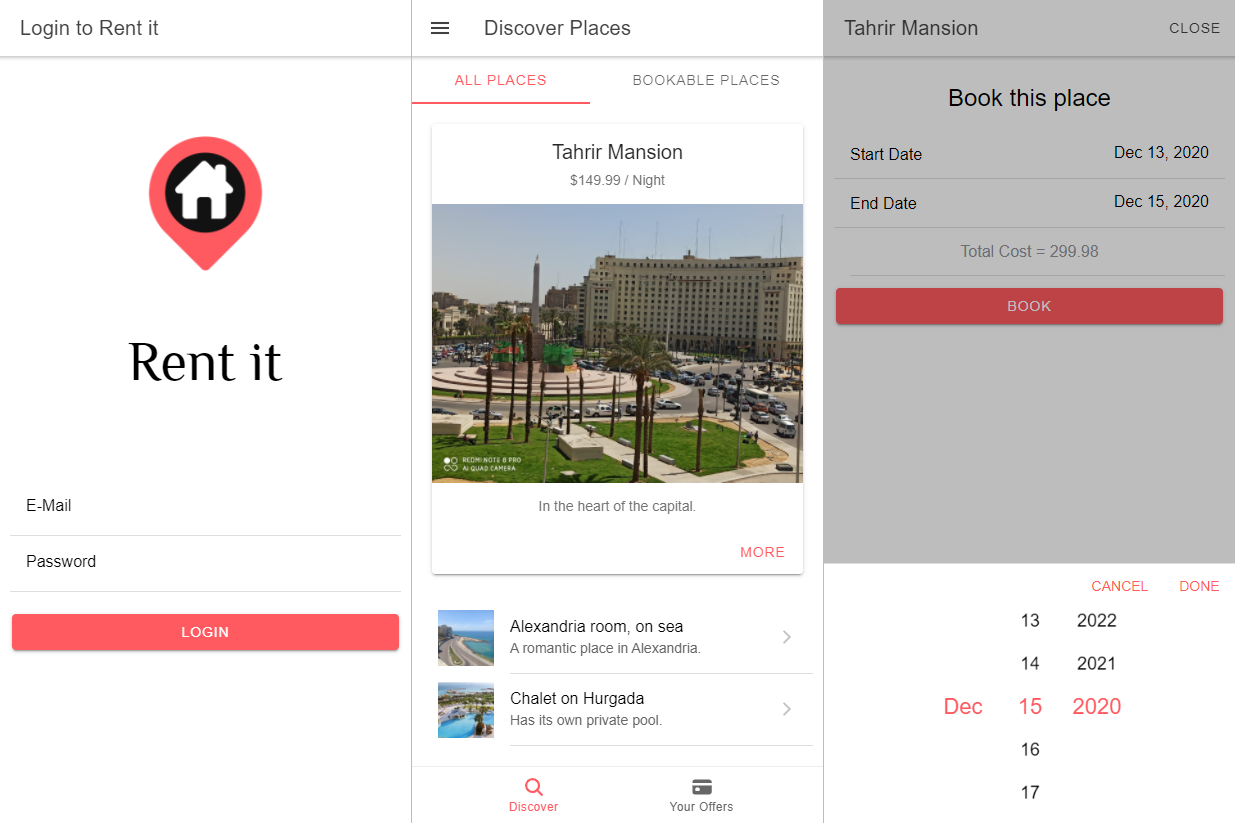
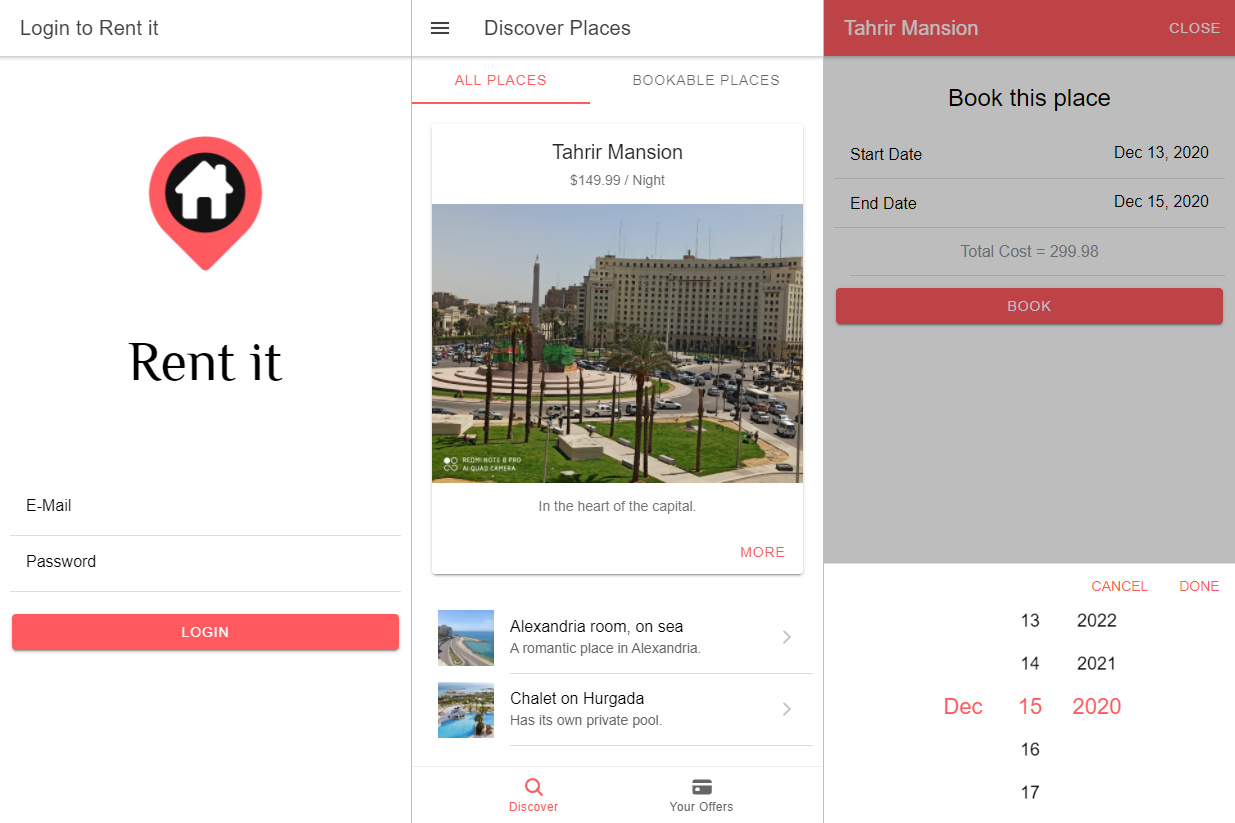
styling changes

Changed region(s): [[0.6462, 0.0, 1.0, 0.0911]]

diff --git a/src/app/app.component.html b/src/app/app.component.html
@@ -3,7 +3,7 @@
 		<ion-menu contentId="main" style="--side-max-width: 150px">
 			<ion-header>
 				<ion-toolbar>
-					<ion-title> Rent it </ion-title>
+					<ion-title color="primary"> Rent it </ion-title>
 				</ion-toolbar>
 			</ion-header>
 			<ion-content>

diff --git a/src/app/bookings/create-booking/create-booking.component.html b/src/app/bookings/create-booking/create-booking.component.html
@@ -1,5 +1,5 @@
 <ion-header>
-  <ion-toolbar>
+  <ion-toolbar color="primary">
     <ion-title>{{place.title}}</ion-title>
     <ion-buttons slot="primary">
       <ion-button (click)="onCancel()">Close</ion-button>
